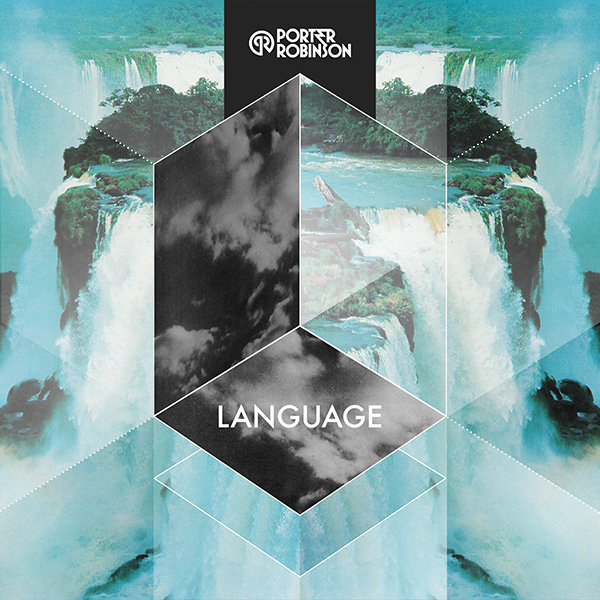
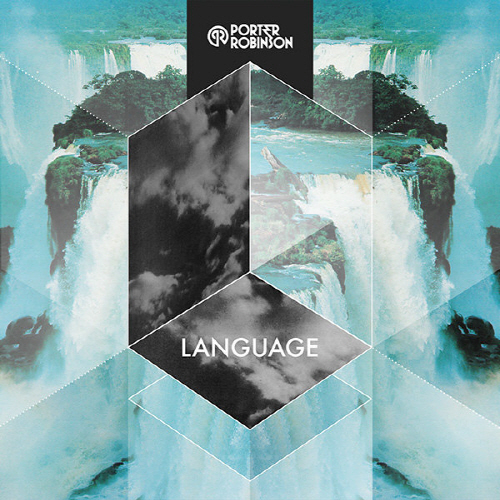
Final version of the project

diff --git a/index.html b/index.html
@@ -10,28 +10,22 @@
   <body>
     <main class="contents">
 <!-- header contents put here -->
-      <header>
-        <section class="header-contents">
-          <div class="logo-image">
-            <img class="svg" src="SVG/headphones.svg" alt="headphone logo">
-          </div>
-          <div class="header-text">
-            <h1 class="main-text">my favorite albums</h1>
-            <h2 class="sub-text">front-end project</h2>
-          </div>
-        </section>
+      <header class="header-contents">
+        <div class="logo-image">
+          <img class="svg" src="SVG/headphones.svg" alt="headphone logo">
+        </div>
+        <div class="header-text">
+          <h1 class="main-text">my favorite albums</h1>
+          <h2 class="sub-text">front-end project</h2>
+        </div>
       </header>
 <!-- hero img and text put here       -->
-      <section class="hero-section">
-        <div class="hero_image">
-          <picture>
-            <!-- <source srcset="https://" size="video/">
-            <source srcset="https://" size="video/">
-            <source srcset="https://" size="video/"> -->
-            <img src="image/Beatles.jpg" alt="">
-          </picture>
-        </div>
-      </section>
+      <div class="hero_image">
+        <picture>
+          <source srcset="image/beatles.jpg" media="(min-width: 850px)">
+          <img src="image/resized_900_beatles.jpg" alt="">
+        </picture>
+      </div>
 <!-- sub posts put here -->
       <section class="sub-posts">
         <div class="sub-post-title">
@@ -42,15 +36,15 @@
           <article class="post album-1">
             <div class="sub-post-img album-1-img">
               <picture>
-                <!-- <source srcset="https://" size="video/">
-                <source srcset="https://" size="video/">
-                <source srcset="https://" size="video/"> -->
-                <img src="image/Beatles.jpg" alt="">
+                <source srcset="image/edm.jpg" media="(min-width: 530px)">
+                <img src="image/Crop_edm.jpg" alt="">
               </picture>
             </div>
             <div  class="sub-post-text album-1-text">
-              <h3>Mark Easton</h3>
-              <a href="#">https://www.naver.com</a>
+              <h3>Porter Robinson</h3>
+              <a href="http://porterrobinson.com/">
+                <p>http://porterrobinson.com/</p>
+              </a>
             </div>
           </article>
         </div>
@@ -59,30 +53,30 @@
           <article class="post album-2">
             <div class="sub-post-img album-2-img">
               <picture>
-                <!-- <source srcset="https://" size="video/">
-                <source srcset="https://" size="video/">
-                <source srcset="https://" size="video/"> -->
-                <img src="image/Beatles.jpg" alt="">
+                <source srcset="image/Miles.jpg" media="(min-width: 850px)">
+                <img src="image/Crop_Miles.jpg" alt="">
               </picture>
             </div>
             <div  class="sub-post-text album-2-text">
-              <h3>Mark Easton</h3>
-              <a href="#">https://www.naver.com</a>
+              <h3>Miles Davis</h3>
+              <a href="https://www.milesdavis.com/">
+                <p>https://www.milesdavis.com/</p>
+              </a>
             </div>
           </article>
 <!-- 3rd sub post put here -->
           <article class="post album-3">
             <div class="sub-post-img album-3-img">
               <picture>
-                <!-- <source srcset="https://" size="video/">
-                <source srcset="https://" size="video/">
-                <source srcset="https://" size="video/"> -->
-                <img src="image/Beatles.jpg" alt="">
+                <source srcset="image/Billboard.jpg" media="(min-width: 850px)">
+                <img src="image/Crop_billboard.jpg" alt="">
               </picture>
             </div>
             <div  class="sub-post-text album-3-text">
               <h3>Mark Easton</h3>
-              <a href="#">https://www.naver.com</a>
+              <a href="https://www.reverbnation.com/markeaston">
+                <p>https://www.reverbnation.com/markeaston</p>
+              </a>
             </div>
           </article>
         </div>

diff --git a/css/style.css b/css/style.css
@@ -25,6 +25,12 @@ img {
   max-width: 100%;
 }
 
+a {
+  text-decoration: none;
+  color: #2D3C49;
+  font-size: 15px;
+}
+
 .header-contents {
   margin-top: 5px;
   margin-bottom: 8px;
@@ -64,7 +70,6 @@ img {
   font-weight: 300;
 }
 
-
 .sub-posts {
   margin-top: 15px;
   padding-left: 4%;
@@ -95,12 +100,6 @@ img {
 .sub-post-text h3 {
   font-size: 25px;
   font-weight: 400;
-}
-
-a {
-  text-decoration: none;
-  color: #2D3C49;
-  font-size: 15px;
 }
 
 @media screen and (min-width: 530px) {
@@ -157,6 +156,7 @@ a {
     font-size: 20px;
     font-weight: 300;
   }
+
   #container-1 {
     width: 33.333%;
   }
@@ -166,6 +166,7 @@ a {
     display: flex;
     flex-wrap: wrap;
   }
+  
   .album-2, .album-3 {
     width: 50%;
   }
